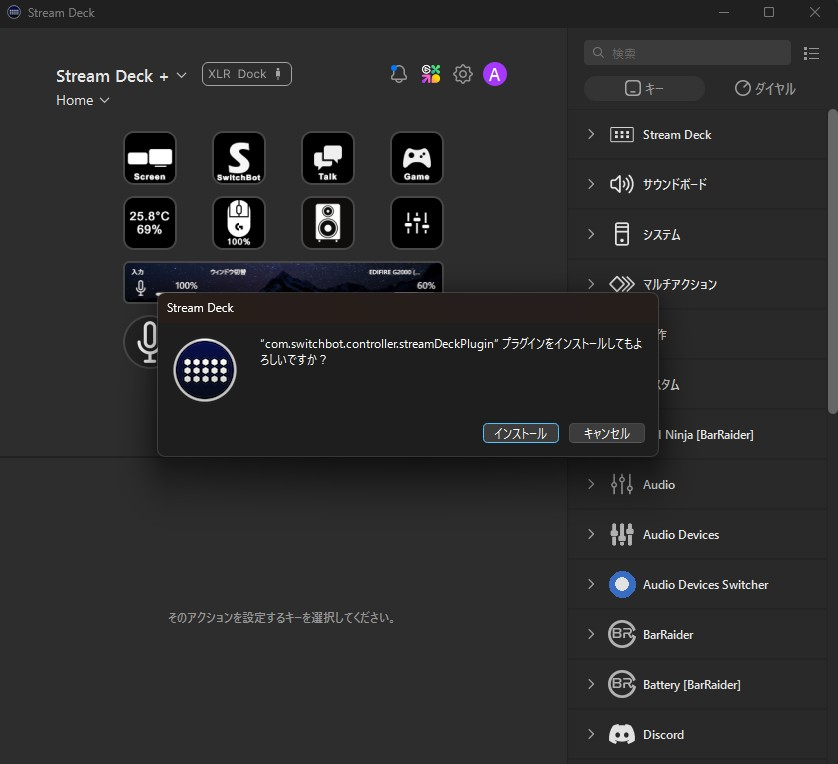
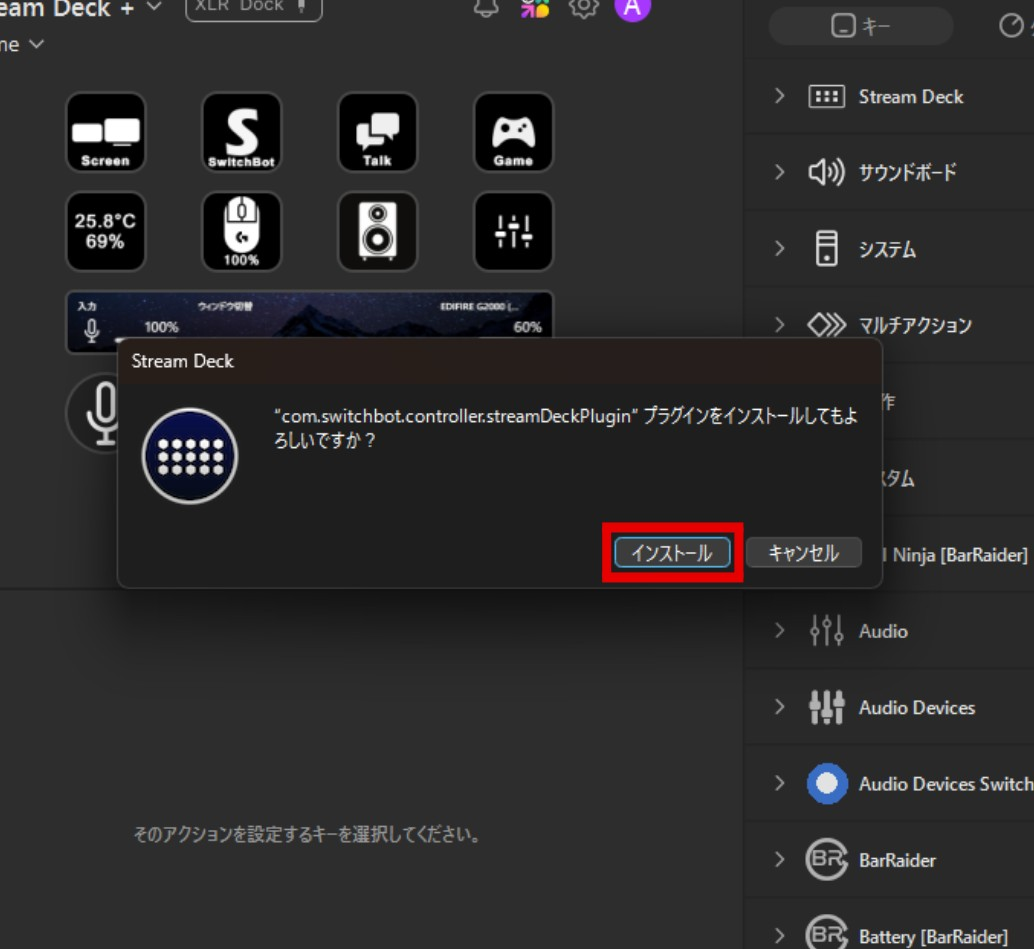
Add Japanese Issue Forms and README note about how to submit issues

diff --git a/README.md b/README.md
@@ -31,6 +31,8 @@ From ON/OFF and toggles to sensors, strip lights, air conditioners, scenes, and 
 
 **[Report a Bug](../../issues)** · **[Request a Feature](../../issues)**
 
+※ Click "New issue" in the top right of the Issues page to get started (Japanese-language forms are also available).
+
 ---
 
 ## Table of Contents
